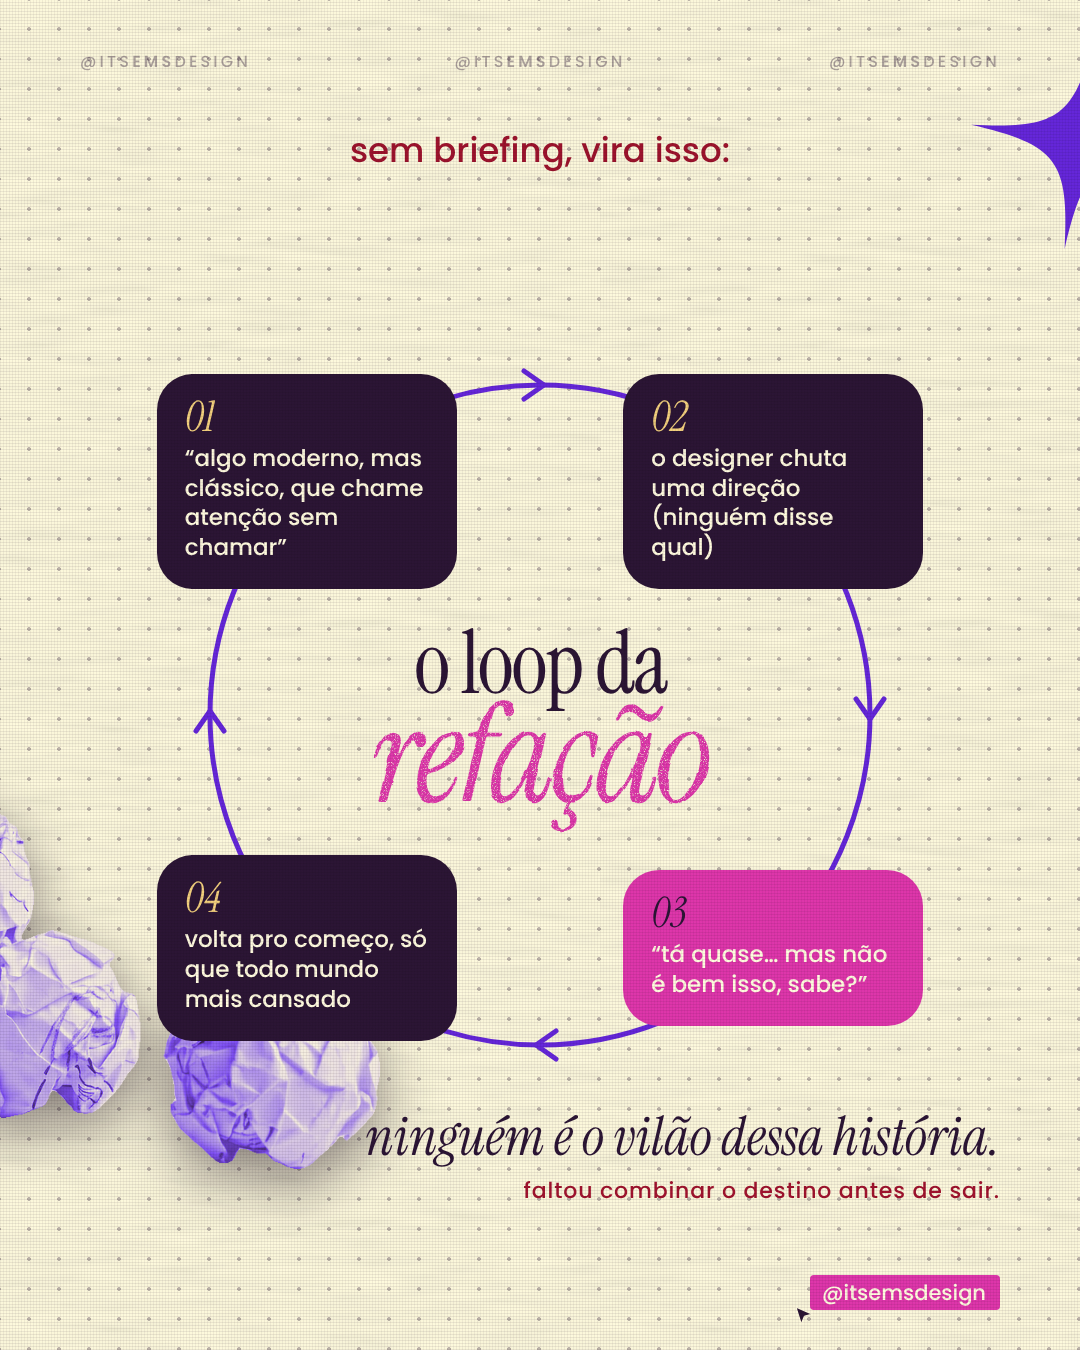
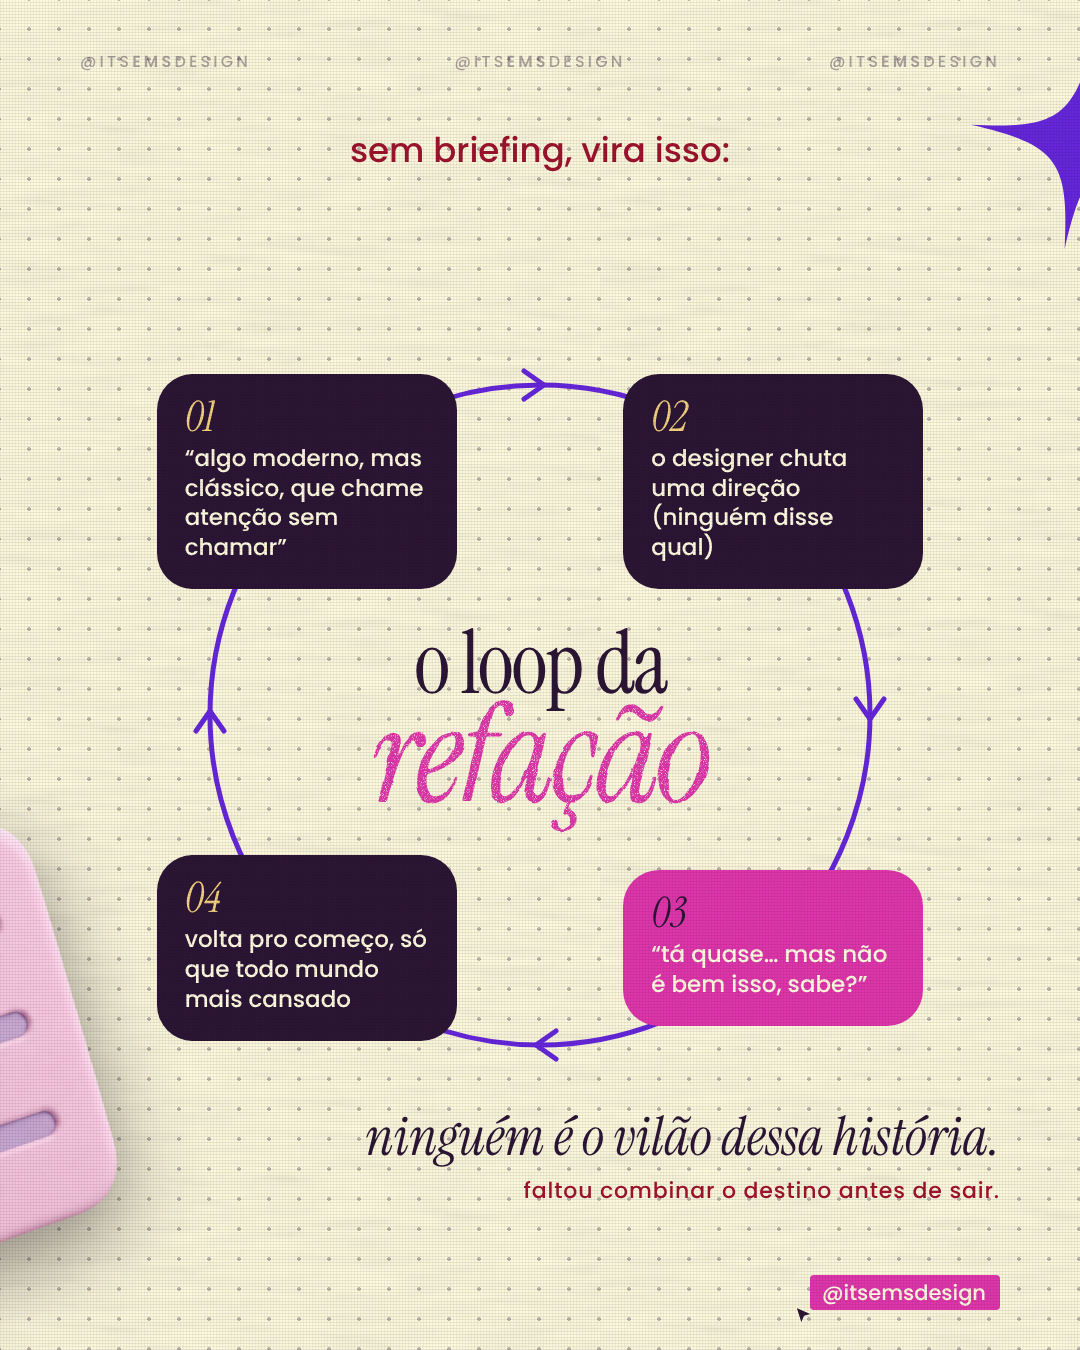
Ajustezinho v8, capa: painel de Ajustes 3D no lugar do papel amassado
Controles deslizantes do Photoshop/Lightroom como objeto 3D rosa e
violeta, com o cursor emi puxando o último controle só um tiquinho;
o painel atravessa o corte para a lâmina 2.

Claude-Session: https://claude.ai/code/session_01CmCiK8ktcTUDK4gcGU9jQJ

Changed region(s): [[0.0, 0.5911, 0.3667, 0.9644]]

diff --git a/Emi/ems-so-um-ajustezinho/projeto/carrossel-v8.html b/Emi/ems-so-um-ajustezinho/projeto/carrossel-v8.html
@@ -89,7 +89,7 @@ body{background:#140a19;width:max-content}
 #l1 .poster span{display:block;white-space:nowrap}
 #l1 .poster .p1{color:var(--ivory)}
 #l1 .poster .p2{color:var(--manteiga)}
-#l1 .papel{left:600px;top:660px;width:860px;z-index:3}
+#l1 .ajustes{left:640px;top:850px;width:540px;transform:rotate(-10deg);z-index:3;filter:drop-shadow(0 26px 40px rgba(20,8,25,.45))}
 #l1 .frase{left:84px;top:1010px;font-size:60px;line-height:.98;color:var(--ivory);z-index:4}
 #l1 .frase em{color:var(--ivory)}
 #l1 .handle{left:96px;bottom:60px}
@@ -196,7 +196,8 @@ body{background:#140a19;width:max-content}
   <p class="lead">“é só um</p>
   <h1 class="poster impresso" id="poster"><span class="p1">ajuste</span><span class="p2">zinho”</span></h1>
   <!-- na frente da palavra e atravessando o corte 1|2 -->
-  <img class="papel duo-v" src="recortes/papel.png" alt="">
+  <img class="ajustes" src="recortes/ajustes-3d.png" alt="">
+  <div class="emi" id="emi-capa" style="left:1012px;top:1150px"><svg width="38" height="38" viewBox="0 0 24 24"><path d="M3 2 L21 10 L12.5 12.5 L9 21 Z" fill="#dd34a8" stroke="#fffbde" stroke-width="1.5" stroke-linejoin="round"/></svg><span style="left:-64px;top:40px">emi</span></div>
   <p class="serif frase impresso">e foi assim que a gente<br>chegou na <em>versão 27.</em></p>
   <span class="handle">@itsemsdesign<svg width="22" height="22" viewBox="0 0 24 24"><path d="M3 2 L21 10 L12.5 12.5 L9 21 Z" fill="#2a1433" stroke="#fffbde" stroke-width="1.5" stroke-linejoin="round"/></svg></span>
   <div class="tela"></div><div class="grao"></div>

diff --git a/Emi/ems-so-um-ajustezinho/README.md b/Emi/ems-so-um-ajustezinho/README.md
@@ -18,11 +18,12 @@ Referência de formato: post da @agrizzart sobre manter o perfil ativo com a age
 
 - **v1** (`entrega/v1/`, `projeto/carrossel.html`): primeira versão, digital e chapada.
 - **v7** (`entrega/v7/`, `projeto/carrossel-v7.html`): a disciplina da lâmina aprovada (a da bússola) em todas; capa-pôster; pasta como janela monocromática; celular desenhado em código.
-- **v8** (`entrega/v8/`, `projeto/carrossel-v8.html`): **em teste.** Igual à v7, mas a pasta (lâmina 3) e o celular (lâmina 5) viram **objetos 3D gerados**, recortados e montados sobre os fundos de textura da EMS, como o papel amassado e a bússola:
+- **v8** (`entrega/v8/`, `projeto/carrossel-v8.html`): **em teste.** Igual à v7, mas com **objetos 3D gerados**, recortados e montados sobre os fundos de textura da EMS:
+  - **capa:** o papel amassado (que incomodava a Emi) sai e entra um **painel de Ajustes 3D** (os controles deslizantes do Photoshop/Lightroom, em rosa e violeta), com o cursor "emi" puxando o último controle só um tiquinho; o painel atravessa o corte para a lâmina 2. Foram descartadas antes: teclas (a Emi já fez capa com teclas) e fita métrica (costura não tem a ver com design);
   - **pasta-envelope rosa com coração violeta** (escolhida pela Emi entre a rosa e uma lilás com elástico; a primeira, amarela, foi achada "feinha"), com as fichas das versões saindo de dentro (nomes datilografados já na imagem), `SelectionBox` + cursor "emi" na `logo_v1.png` e o aviso "spoiler: aprovaram a v1" (referência 17 da pesquisa);
   - **celular 3D ameixa** com a conversa na tela ("oii! antes de qualquer rabisco, me conta uma coisa:" + "como é a sua marca em três palavras?" + digitando), como a Emi preferiu; conteúdo encaixado em perspectiva nos 4 cantos da tela, respeitando a ilha (referência 10).
 
-Os dois objetos foram gerados no Figma (gpt-image-2.5-sunburst, fundo #E9E9E9) porque o ElevenLabs, o Freepik e o Higgsfield estavam sem créditos. Foto de cena inteira (celular sobre linho, pasta sobre tecido) foi testada e **descartada**: realista demais, não combina com a EMS. Elemento gerado = objeto recortado no estilo da marca.
+Os objetos foram gerados no Figma (gpt-image-2.5-sunburst, fundo #E9E9E9) porque o ElevenLabs, o Freepik e o Higgsfield estavam sem créditos. Foto de cena inteira (celular sobre linho, pasta sobre tecido) foi testada e **descartada**: realista demais, não combina com a EMS. Elemento gerado = objeto recortado no estilo da marca.
 
 | Lâmina | O que tem | Princípio das refs |
 | --- | --- | --- |
@@ -37,7 +38,7 @@ Os dois objetos foram gerados no Figma (gpt-image-2.5-sunburst, fundo #E9E9E9) p
 
 Descartadas: v2 (caderno repetido), v3 (voltou demais para a v1), v4 (fio), v5 (cara de interface), v6 (fonte pesada e manuscrita em tudo, borracha jogada, xadrez forte com janela colorida). As lições estão no Design System da EMS (README › "Regras de carrossel"; conteúdo › "Carrossel: regras aprendidas").
 
-Referências em `referencias/outras/` e a pesquisa (25 peças, com o princípio de cada uma) em `referencias/pesquisa/`.
+Referências em `referencias/outras/`, a pesquisa geral (25 peças) em `referencias/pesquisa/` e a de capa (10 peças de vários designers) em `referencias/pesquisa-capa/`.
 
 ## Lâminas
 
